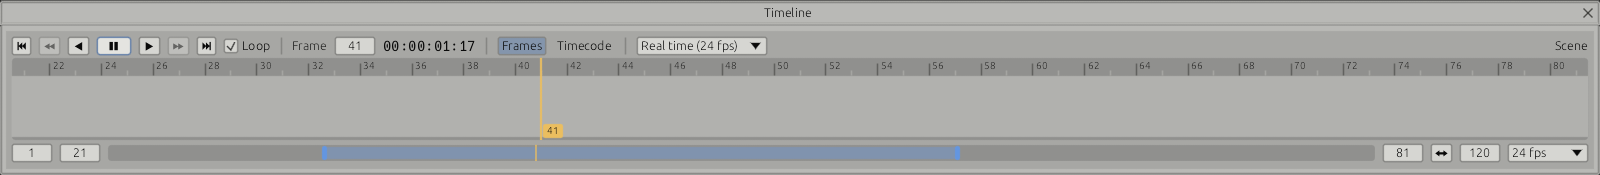
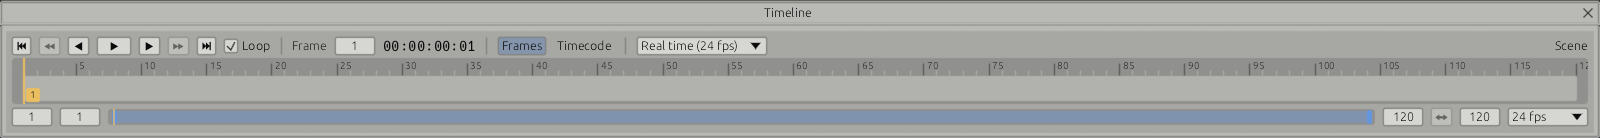
Timeline: its pane as tall as its rows, no taller

diff --git a/src/timeline/ui.rs b/src/timeline/ui.rs
@@ -38,7 +38,7 @@ mod xsi {
     }
 }
 
-const TRACK_H: f32 = 40.0;
+const TRACK_H: f32 = 46.0;
 const TRACK_PAD: f32 = 12.0;
 
 /// Frame range of `other` in frames of `clip`'s rate, matched by timecode.
@@ -169,6 +169,14 @@ fn key_menu(resp: &egui::Response, graph: &mut NodeGraphState) {
 
 /// Height of the range slider along the bottom.
 const RANGE_H: f32 = 20.0;
+/// Where the timeline says how much taller its pane is than it needs.
+const SPARE: &str = "timeline_spare";
+
+/// How many points taller the timeline's pane was than its rows and the
+/// track's least height need, as last drawn.
+pub fn spare(ctx: &egui::Context) -> Option<f32> {
+    ctx.data(|d| d.get_temp::<f32>(egui::Id::new(SPARE)))
+}
 
 /// Advances playback and draws the panel. `dt` is the frame's delta time.
 /// `keys` is false while a text field has keyboard focus.
@@ -470,7 +478,11 @@ impl Span {
 
 /// The track: what is left of the pane above the range slider.
 fn track(ui: &mut egui::Ui) -> (egui::Rect, egui::Response) {
-    let h = (ui.available_height() - RANGE_H - ui.spacing().item_spacing.y).max(TRACK_H);
+    let room = ui.available_height() - RANGE_H - ui.spacing().item_spacing.y;
+    // What the pane has beyond the track's least, or lacks: the layout takes
+    // it back, or gives it.
+    ui.ctx().data_mut(|d| d.insert_temp(egui::Id::new(SPARE), room - TRACK_H));
+    let h = room.max(TRACK_H);
     let (rect, resp) = ui.allocate_exact_size(egui::vec2(ui.available_width(), h), egui::Sense::click_and_drag());
     ui.painter().rect_filled(rect, 3.0, xsi::TRACK_BG());
     (rect, resp)

diff --git a/src/layout.rs b/src/layout.rs
@@ -372,6 +372,36 @@ impl Layout {
         self.sized = now;
     }
 
+    /// The Timeline, docked above or below other panes, is kept to the height
+    /// its rows need: `spare` points taller than that (as it last drew) is
+    /// taken off its pane, and given back if it is short. Not while it shares
+    /// its place with other tabs, nor floating.
+    pub fn fit_timeline(&mut self, spare: f32) {
+        let tree = &mut self.dock[egui_dock::SurfaceIndex::main()];
+        let Some((node, _)) = tree.find_tab(&Pane::Timeline) else { return };
+        let rect = match &tree[node] {
+            egui_dock::Node::Leaf(l) if l.tabs.len() == 1 => l.rect,
+            _ => return,
+        };
+        if !rect.is_finite() || spare.abs() < 1.5 {
+            return;
+        }
+        let want = rect.height() - spare;
+        let mut at = node;
+        while let Some(p) = at.parent() {
+            if let egui_dock::Node::Vertical(split) = &mut tree[p] {
+                let h = split.rect.height();
+                if !h.is_finite() || h <= want + 40.0 {
+                    return;
+                }
+                let share = want / h;
+                split.fraction = if p.left() == at { share } else { 1.0 - share };
+                return;
+            }
+            at = p;
+        }
+    }
+
     pub fn is_open(&self, pane: Pane) -> bool {
         self.dock.find_tab(&pane).is_some()
     }

diff --git a/src/main.rs b/src/main.rs
@@ -623,6 +623,10 @@ pub(crate) fn draw_ui(
     if let Some(pane) = toggle_float {
         layout.toggle_float(pane);
     }
+    // The Timeline's pane is as tall as its rows, no taller.
+    if let Some(spare) = timeline::ui::spare(ctx) {
+        layout.fit_timeline(spare);
+    }
 
     // Docking along a whole edge of the window
     // The dock area only offers places beside single panes. While a tab is

diff --git a/DESIGN_PHILOSOPHY.md b/DESIGN_PHILOSOPHY.md
@@ -1097,3 +1097,4 @@ which shows everything Y up in metres, writes the transform that does it.
 - 03/11/2026: The Viewer first (Simon): what can be manipulated in the Viewer is, with a handle for every parameter one can stand for; a node's Viewer picture is its main output, the most useful output first; a node with data coming in never shows nothing; a compound shows what it is for.
 - 05/11/2026: A test that stops making progress fails, naming the template and operator it was on, instead of hanging the run for hours; CI's test steps stop after an hour (Martino). (Martino)
 - 05/11/2026: The timeline fills its pane, with the controls animators expect (Simon): view in and out on a range slider along the bottom, as Maya's and Houdini's, the track showing and playing only them (Export Movie writes them too); frames or timecode for any range; a playback speed apart from the rate (real time, a rate of its own, every frame). The scene's range and rate sit at the slider's ends, the clip's when a clip is shown.
+- 05/11/2026: The Timeline's pane is as tall as its rows, no taller (Simon): docked above or below other panes it keeps to that height whatever the window's size, and the room goes to the panes above.

diff --git a/docs/mocap.md b/docs/mocap.md
@@ -21,8 +21,11 @@ bottom](xms_timeline.png)
 | Frame | The playhead's frame, typed or dragged, and its timecode |
 | Frames, Timecode | The ruler and the playhead's tag in frames or in timecode |
 | Speed | Real time at the rate of what is shown (the default); 6 to 60 fps whatever the rate; Every frame, one frame each time the interface is drawn, however long it takes |
-| Track | Fills the pane. Click or drag to move the playhead; the selected operator's keys are red ticks on it |
+| Track | Click or drag to move the playhead; the selected operator's keys are red ticks on it |
 | Range slider | Along the bottom: the first frame, view in, the slider, view out, the last frame. Drag a handle to set view in or out, the middle to move both; type them in the fields either side. Double-click the slider or press ↔ for the whole range |
+
+The Timeline's pane, docked above or below other panes, keeps to the height
+its rows need, whatever the size of the window: no empty space under them.
 
 View in and out are what the track shows and what plays and loops; Export
 Movie writes them too. With a clip, the first and last frame are the clip's

diff --git a/docs/interface.md b/docs/interface.md
@@ -36,7 +36,7 @@ the left with the Image Viewer as a tab behind it (see
 Primitive Inspector behind; then the Node Graph, with the UV Editor and the
 Curve Editor as tabs behind it (see [UV](uv.md), [Keys](keys.md)); then
 Parameters over History, with the Operator Stack behind it (see
-[Undo](undo.md)). The Timeline runs along the bottom. A layout saved before the
+[Undo](undo.md)). The Timeline runs along the bottom, as tall as its rows and no taller (see [Timeline](mocap.md#timeline)). A layout saved before the
 History pane, the Curve Editor or the Image Viewer existed does not have them:
 tick them in the Window menu, or "Reset layout" for the default.
 
